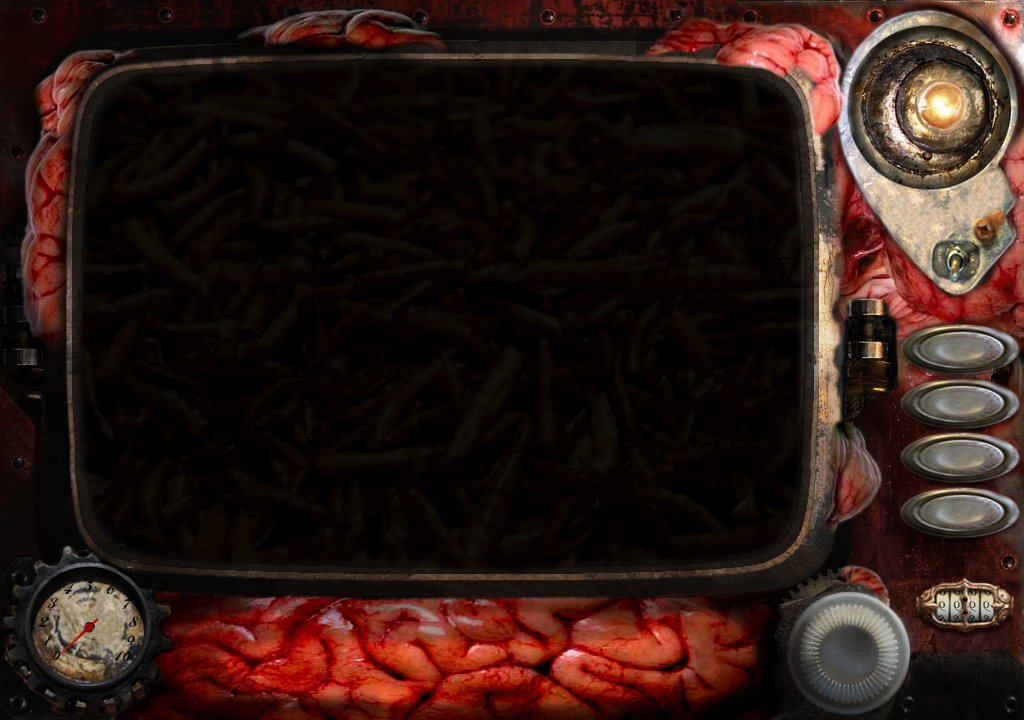
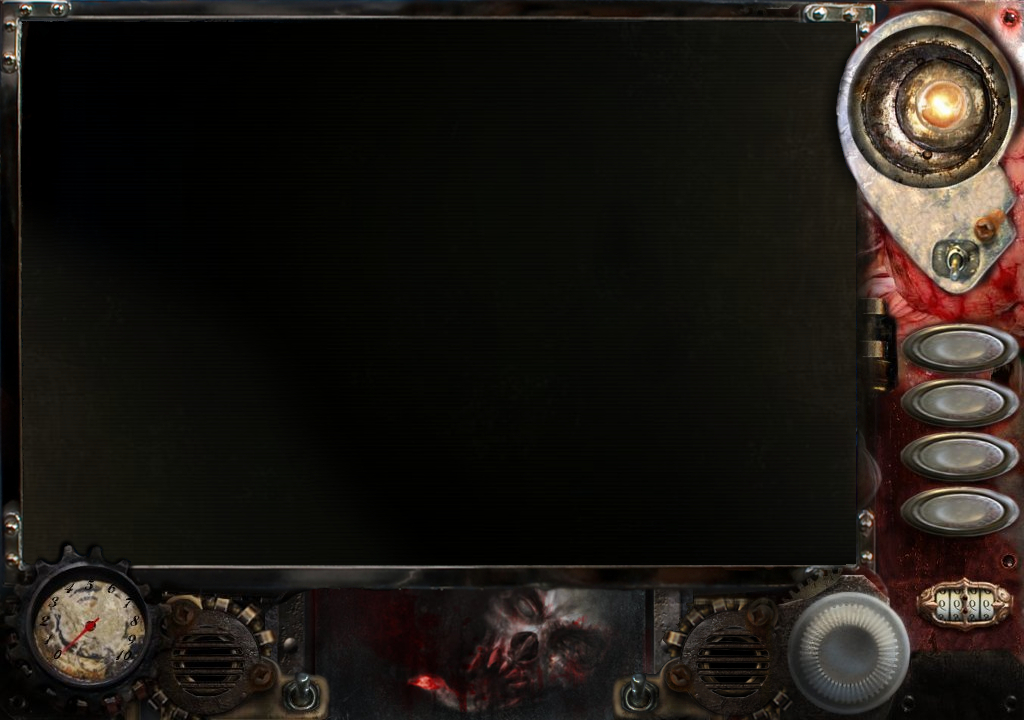
Fix obscurity frame.

diff --git a/engine/sources/layout.php b/engine/sources/layout.php
@@ -121,7 +121,6 @@ function location_out(hoveritem) {
 <!-- PULSANTI -->
 
 <?PHP
-	if (!$x7c->settings['panic']) {
 		echo '
 			<div id="hintbtn" style="position: absolute; top: 672px; left: 283px;">
 			<a onClick="'.popup_open(446, 558, "index.php?act=hint", "hint").'"> 
@@ -138,7 +137,6 @@ function location_out(hoveritem) {
 				onMouseout="javascript: HidePopup(this);">
 			</a>
 			</div>';
-	}
 ?>
 
 

diff --git a/engine/lib/ssgen.php b/engine/lib/ssgen.php
@@ -452,6 +452,7 @@
 				$css .=	"./graphic/sfondo1026x723.jpg";
 				
 			$css.=");
+			  background-repeat: no-repeat;
 				width: 1026px; 
 				height: 723px;
 				position: absolute;
